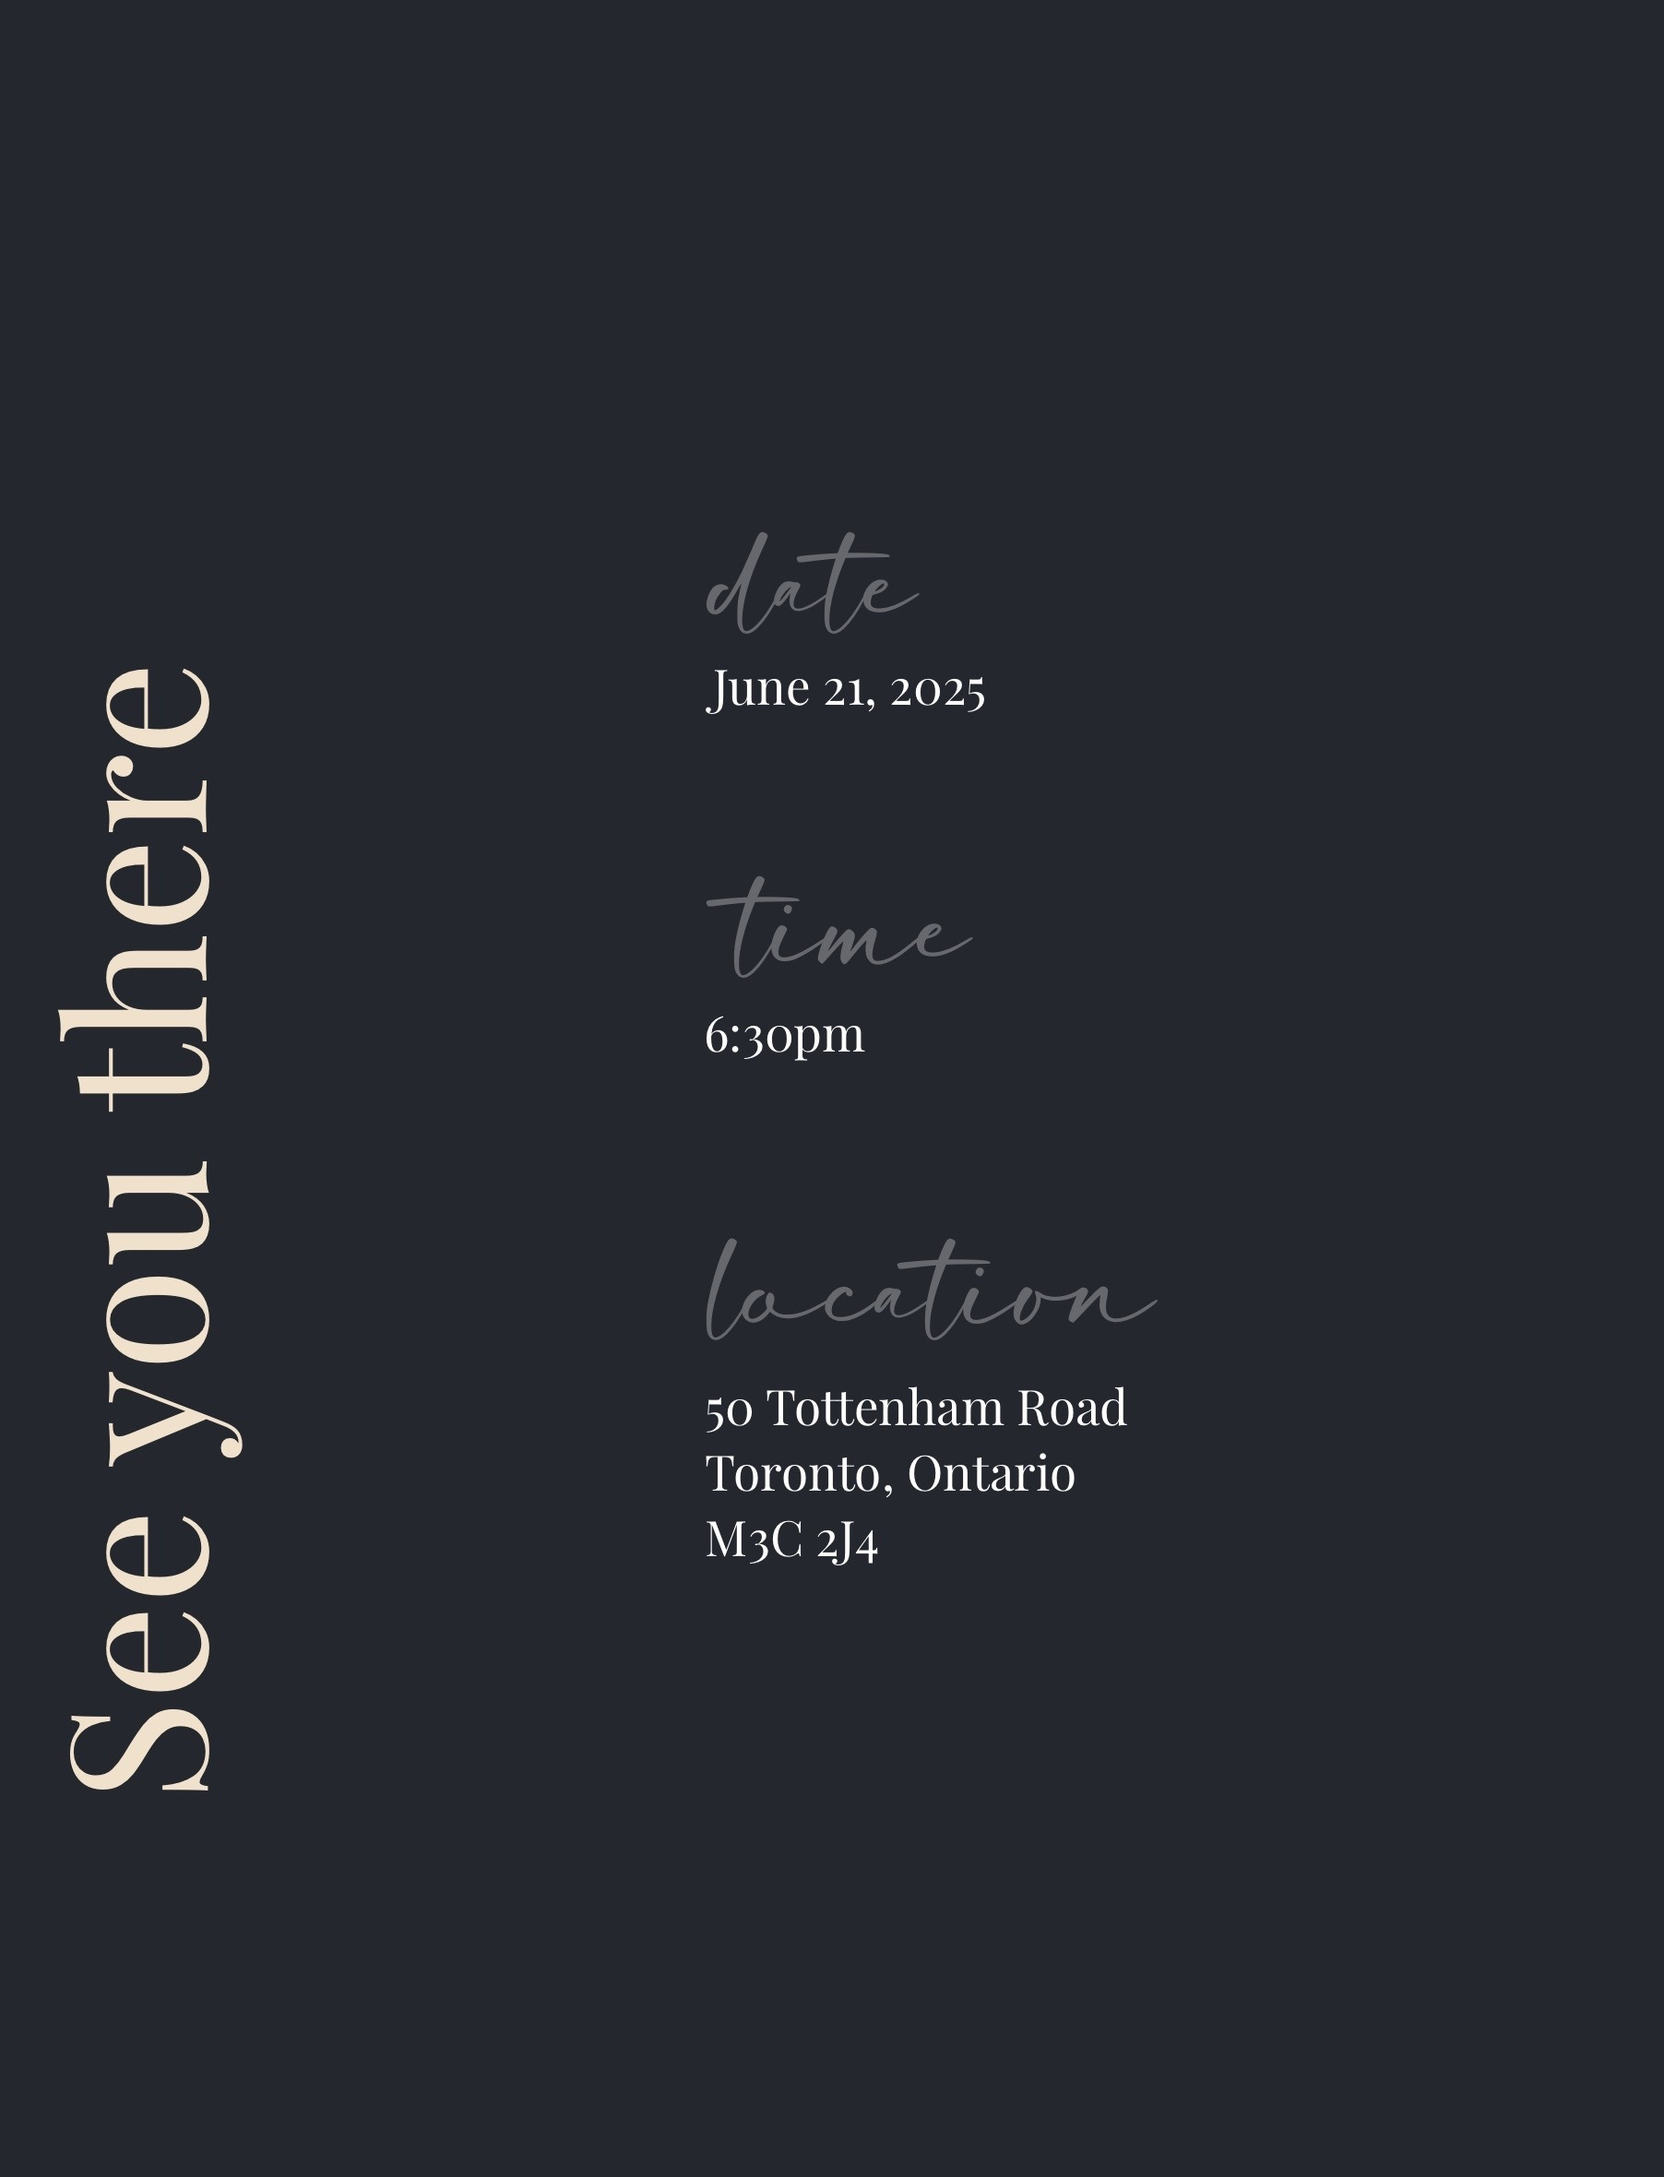
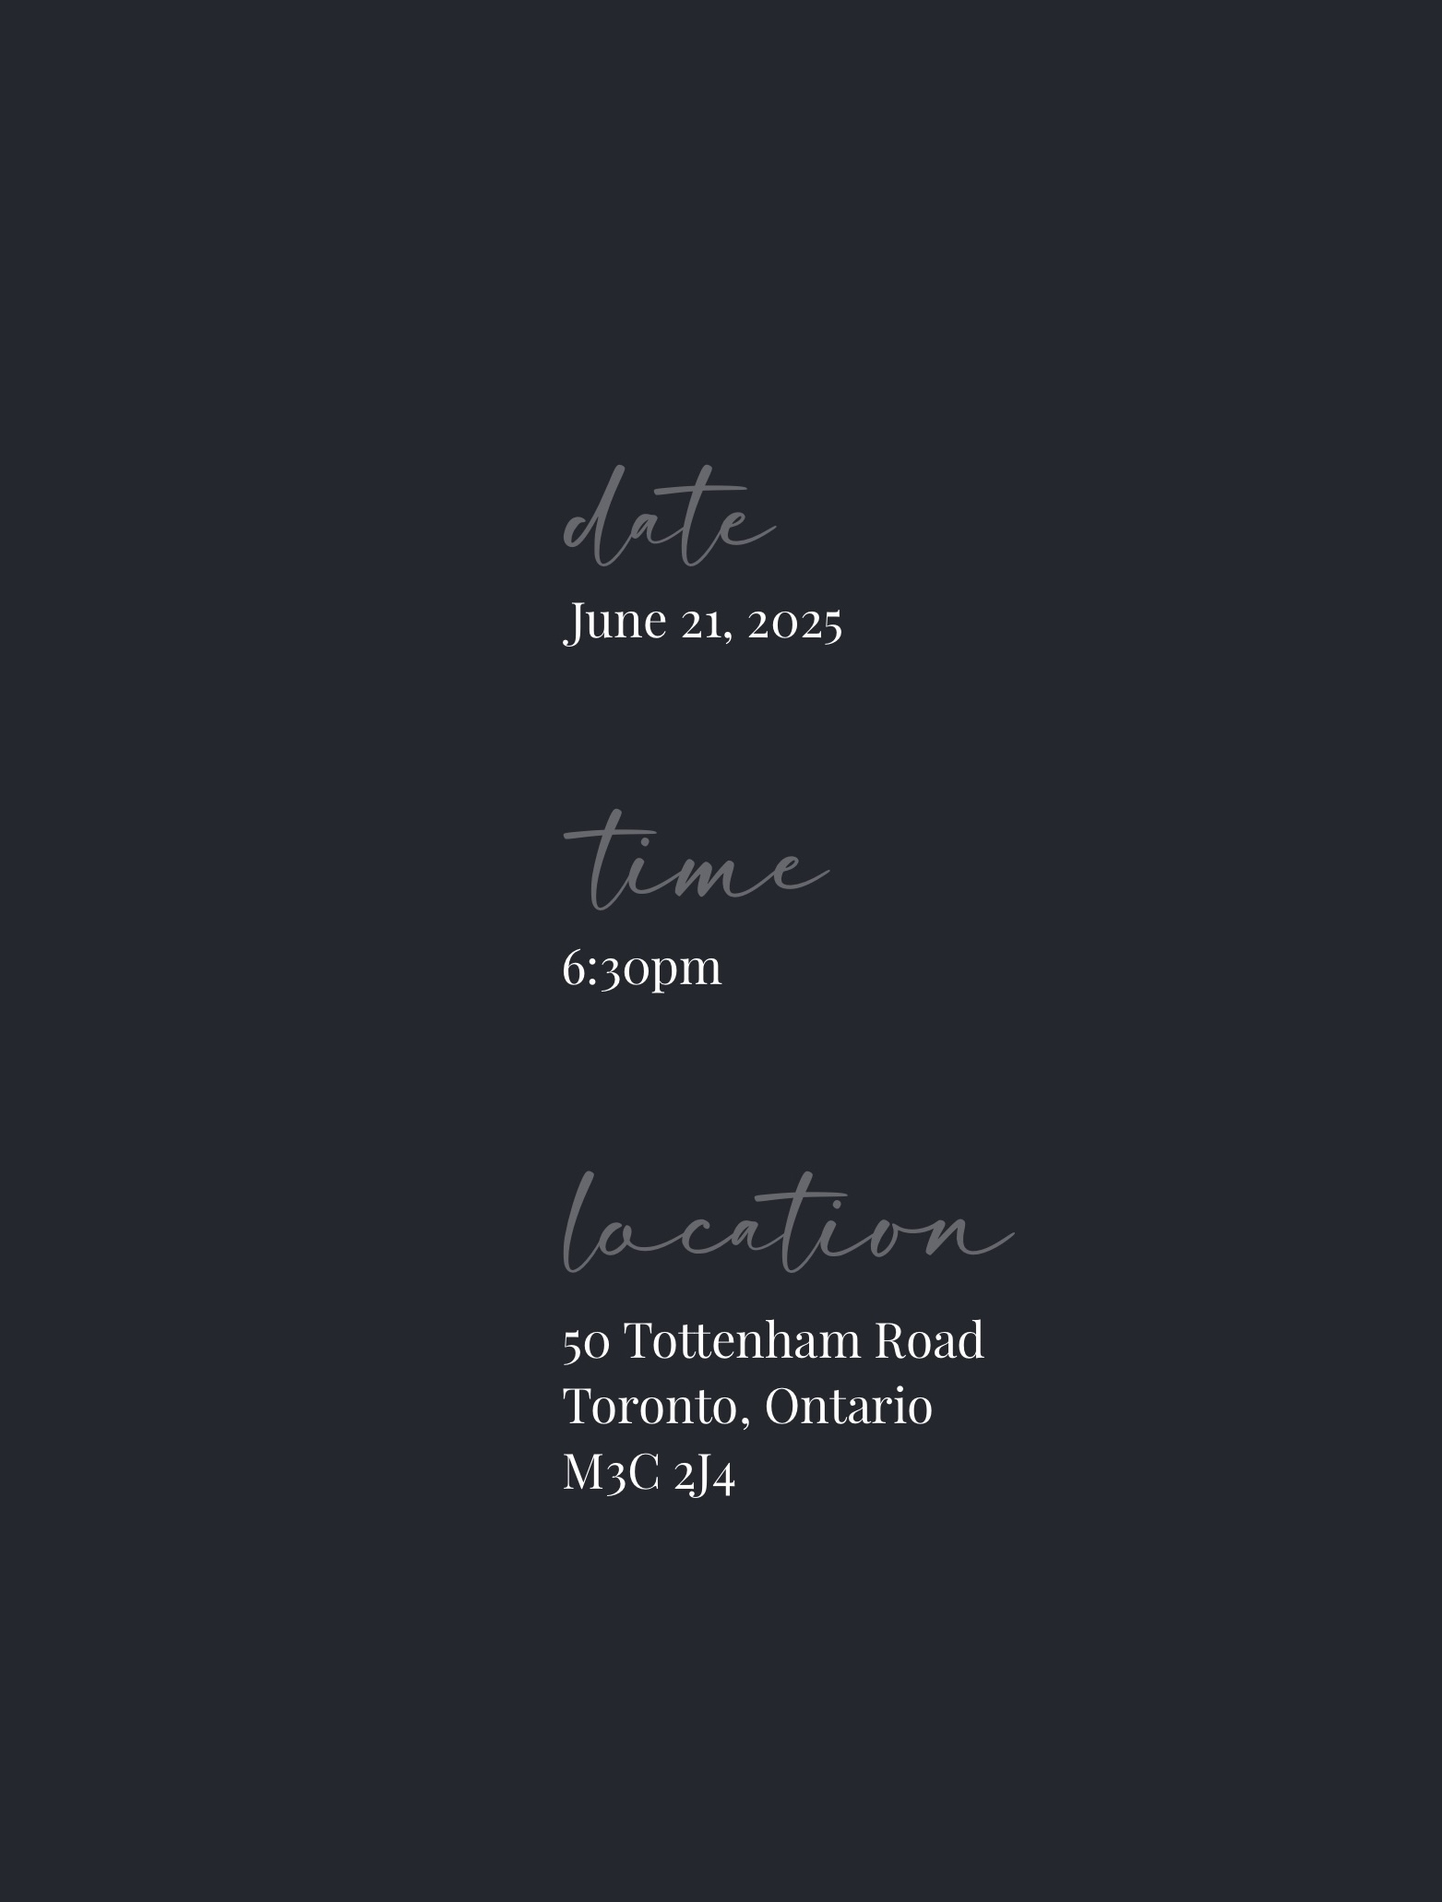
more styling and design system

diff --git a/src/components/RSVPForm.tsx b/src/components/RSVPForm.tsx
@@ -125,7 +125,7 @@ export default function RSVPForm({ familyMembers }: { familyMembers: FamilyMembe
       }} 
       className="max-w-md mx-auto p-6 bg-white/80 rounded-lg shadow-lg"
     >
-      <h2 className="text-2xl mb-6 text-center font-['Playfair_Display'] text-[#4F677D]">RSVP for Your Family</h2>
+      <h2 className="text-2xl mb-6 text-center font-['Playfair_Display'] text-primary">RSVP for Your Family</h2>
       
       {submitStatus && (
         <div className={`p-4 mb-4 rounded ${submitStatus.type === 'success' ? 'bg-green-100 text-green-700' : 'bg-red-100 text-red-700'}`}>
@@ -134,7 +134,7 @@ export default function RSVPForm({ familyMembers }: { familyMembers: FamilyMembe
       )}
 
       {familyMembers.map((member, index) => (
-        <div key={index} className="mb-6 p-4 border rounded">
+        <div key={index} className="mb-6 p-4 border rounded border-primary">
           <h3 className="text-lg font-semibold mb-4">{member.name}</h3>
           
           <div className="mb-4">
@@ -147,7 +147,7 @@ export default function RSVPForm({ familyMembers }: { familyMembers: FamilyMembe
                 onClick={() => setValue(`familyMembers.${index}.attending`, true)}
                 className={`px-4 py-2 rounded-lg font-medium ${
                   watch(`familyMembers.${index}.attending`) === true
-                    ? 'bg-[#311911] text-white'
+                    ? 'button-bg-primary text-white'
                     : 'bg-gray-100 text-gray-700 hover:bg-gray-200'
                 }`}
               >
@@ -158,7 +158,7 @@ export default function RSVPForm({ familyMembers }: { familyMembers: FamilyMembe
                 onClick={() => setValue(`familyMembers.${index}.attending`, false)}
                 className={`px-4 py-2 rounded-lg font-medium ${
                   watch(`familyMembers.${index}.attending`) === false
-                    ? 'bg-[#311911] text-white'
+                    ? 'button-bg-primary text-white'
                     : 'bg-gray-100 text-gray-700 hover:bg-gray-200'
                 }`}
               >
@@ -256,7 +256,7 @@ export default function RSVPForm({ familyMembers }: { familyMembers: FamilyMembe
           type="submit"
           disabled={isSubmitting}
           onClick={() => console.log("Submit button clicked")}
-          className="bg-black hover:bg-gray-600 text-white font-bold py-2 px-4 rounded focus:outline-none focus:shadow-outline disabled:opacity-50"
+          className="button-bg-primary hover:bg-gray-600 text-white font-bold py-2 px-4 rounded focus:outline-none focus:shadow-outline disabled:opacity-50"
         >
           {isSubmitting ? 'Submitting...' : 'Submit RSVP'}
         </button>

diff --git a/src/components/NameLookupForm.tsx b/src/components/NameLookupForm.tsx
@@ -70,7 +70,7 @@ export default function NameLookupForm({ onNameFound, onAlreadyRSVPd }: NameLook
 
   return (
     <form onSubmit={handleSubmit(onSubmit)} className="max-w-md mx-auto p-6 bg-white/80 rounded-lg shadow-lg ">
-      <h2 className="text-2xl mb-6 text-center font-['Playfair_Display'] text-[#4F677D]">Find Your Name</h2>
+      <h2 className="text-2xl mb-6 text-center font-['Playfair_Display'] text-primary">Find Your Name</h2>
       
       {error && (
         <div className="p-4 mb-4 bg-red-100 text-red-700 rounded">
@@ -95,7 +95,7 @@ export default function NameLookupForm({ onNameFound, onAlreadyRSVPd }: NameLook
         <button
           type="submit"
           disabled={isSubmitting}
-          className="bg-[#311911] hover:bg-gray-600 text-white font-bold py-2 px-4 rounded focus:outline-none focus:shadow-outline disabled:opacity-50"
+          className="button-bg-primary hover:bg-gray-600 text-white font-bold py-2 px-4 rounded focus:outline-none focus:shadow-outline disabled:opacity-50"
         >
           {isSubmitting ? 'Looking up...' : 'Find Name'}
         </button>

diff --git a/src/app/globals.css b/src/app/globals.css
@@ -1,4 +1,5 @@
 @import "tailwindcss";
+@import "../styles/design-tokens.css";
 
 @font-face {
   font-family: 'Filena';
@@ -36,8 +37,8 @@
 }
 
 :root {
-  --background: #20242B;
-  --foreground: #171717;
+  --background: var(--color-background);
+  --foreground: var(--color-foreground);
 }
 
 @theme inline {
@@ -48,7 +49,36 @@
 }
 
 body {
-  background: #20242B;
+  background: var(--background);
   color: var(--foreground);
   font-family: 'Filena', sans-serif;
+}
+
+/* Design System Utilities */
+.text-primary {
+  color: var(--color-primary);
+}
+
+.text-secondary {
+  color: var(--color-secondary);
+}
+
+.button-bg-primary {
+  background-color: var(--color-secondary);
+}
+
+.bg-primary {
+  background-color: var(--color-background-primary);
+}
+
+.bg-secondary {
+  background-color: var(--color-background-secondary);
+}
+
+.border-primary {
+  border-color: var(--color-primary);
+}
+
+.border-secondary {
+  border-color: var(--color-secondary);
 }

diff --git a/src/components/InviteScreen.tsx b/src/components/InviteScreen.tsx
@@ -6,8 +6,8 @@ interface InviteScreenProps {
 
 export default function InviteScreen({ onRSVPClick }: InviteScreenProps) {
   return (
-    <div className="relative h-screen w-screen flex">
-      <div className="relative w-1/2 h-full">
+    <div className="relative h-screen w-screen flex flex-col md:flex-row">
+      <div className="relative w-full md:w-1/2 h-1/2 md:h-full">
         <div className="relative h-full">
           <Image
             src="/images/invite.jpg"
@@ -25,7 +25,7 @@ export default function InviteScreen({ onRSVPClick }: InviteScreenProps) {
           </button>
         </div>
       </div>
-      <div className="relative w-1/2 h-full">
+      <div className="relative w-full md:w-1/2 h-1/2 md:h-full">
         <Image
           src="/images/event-details.jpg"
           alt="Event Details"

diff --git a/tailwind.config.js b/tailwind.config.js
@@ -1,0 +1,19 @@
+/** @type {import('tailwindcss').Config} */
+module.exports = {
+  content: [
+    './src/pages/**/*.{js,ts,jsx,tsx,mdx}',
+    './src/components/**/*.{js,ts,jsx,tsx,mdx}',
+    './src/app/**/*.{js,ts,jsx,tsx,mdx}',
+  ],
+  theme: {
+    extend: {
+      colors: {
+        primary: 'var(--color-primary)',
+        secondary: 'var(--color-secondary)',
+        'background-primary': 'var(--color-background)',
+        'foreground-primary': 'var(--color-foreground)',
+      },
+    },
+  },
+  plugins: [],
+} 

diff --git a/src/app/page.tsx b/src/app/page.tsx
@@ -43,7 +43,7 @@ export default function Home() {
         <div
           className="absolute inset-0 flex justify-center items-end z-0"
         >
-          <div className="w-full max-w-2xl h-full bg-[#EFE1CA] rounded-2xl" />
+          <div className="w-full max-w-2xl h-full bg-secondary rounded-2xl" />
         </div>
         <div className="max-w-2xl mx-auto relative z-10">
           {!familyMembers ? (

diff --git a/src/styles/design-tokens.css b/src/styles/design-tokens.css
@@ -1,0 +1,15 @@
+:root {
+  /* Primary Color */
+  --color-primary: #4F677D;
+
+  /* Secondary Color */
+  --color-secondary: #311911;
+
+  /* Neutral Colors */
+  --color-background: #20242B;
+  --color-foreground: #171717;
+
+  /* Background Colors */
+  --color-background-primary: #20242B;
+  --color-background-secondary: #EFE1CA;
+} 
